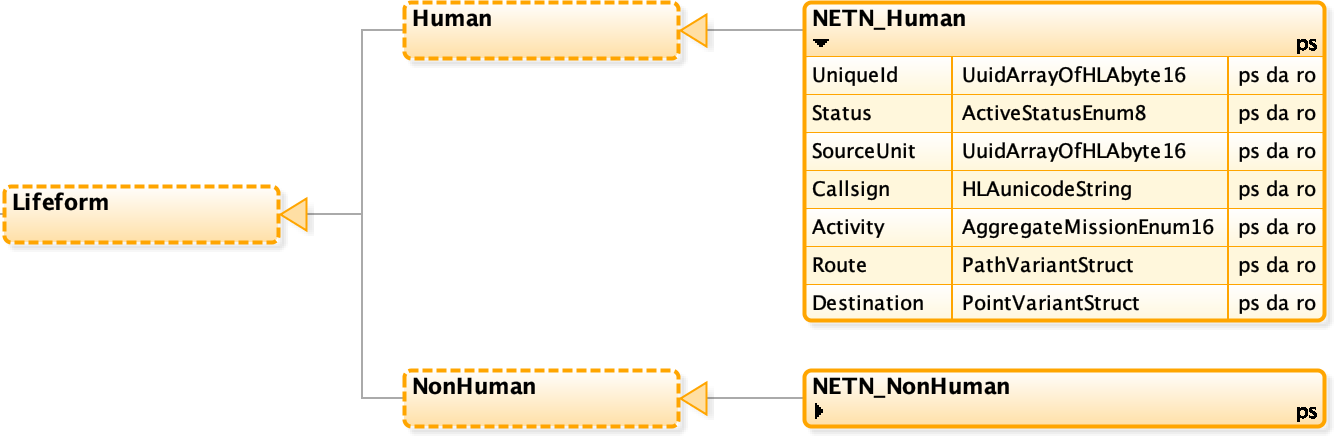
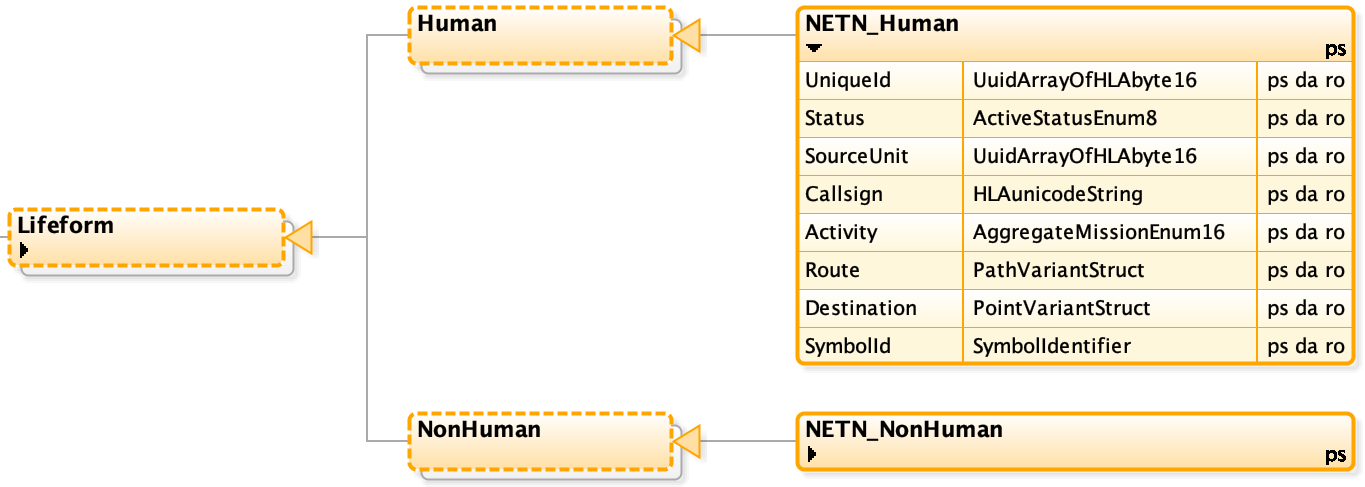
#10

Changed region(s): [[0.2455, 0.0, 1.0, 0.7717], [0.2455, 0.8311, 1.0, 1.0], [0.0, 0.4155, 0.2762, 0.5936]]

diff --git a/NETN-Physical.md b/NETN-Physical.md
@@ -62,6 +62,7 @@ Figure: NETN Extensions to RPR-FOM Platform object classes
 |Activity|**Optional:** The current activity of the platform. The activity may differ from the mission due to casualties, readiness, and other reasons. The default value is 0 (Other activity).|
 |Route|**Optional:** The current path of movement.|
 |Destination|**Optional:** The current destination of movement.|
+|SymbolId|**Optional:** A symbol identifier represented as a string. The symbol standard used is indicated using an URI notation (uri:xxxxxxxxxx). The following uri should be used for common symbology standards app6b, app6b, app6c, app6c, 2525b, 2525c, 2525d. If not provided the symbol standard used is undefined.|
 
 ## Lifeform Entities
 
@@ -80,6 +81,7 @@ Figure: NETN Extensions to RPR-FOM Lifeform object classes
 |Activity|**Optional:** The current activity of the platform. The activity may differ from the mission due to casualties, readiness, and other reasons. The default value is 0 (Other activity).|
 |Route|**Optional:** The current path of movement.|
 |Destination|**Optional:** The current destination of movement.|
+|SymbolId|**Optional:** A symbol identifier represented as a string. The symbol standard used is indicated using an URI notation (uri:xxxxxxxxxx). The following uri should be used for common symbology standards app6b, app6b, app6c, app6c, 2525b, 2525c, 2525d. If not provided the symbol standard used is undefined.|
 
 
 ## Cultural Features
@@ -97,6 +99,7 @@ Figure: NETN Extension to RPR-FOM CulturalFeature object class
 |EmbeddedUnitList|**Optional:** Reference to units, platforms or lifeforms embedded in this CulturalFeature. The default value is an empty list.|
 |Callsign|**Required:** A callsign used to address the unit. Callsigns should be unique in the context in which they are used but not required to be globally unique.|
 |Activity|**Optional:** The current activity of the platform. The activity may differ from the mission due to casualties, readiness, and other reasons. The default value is 0 (Other activity).|
+|SymbolId|**Optional:** A symbol identifier represented as a string. The symbol standard used is indicated using an URI notation (uri:xxxxxxxxxx). The following uri should be used for common symbology standards app6b, app6b, app6c, app6c, 2525b, 2525c, 2525d. If not provided the symbol standard used is undefined.|
 
 ## Munition Entities
 
@@ -110,5 +113,6 @@ Figure: NETN Extension to RPR-FOM Munition object class
 |---|---|
 |UniqueId|**Required**: A unique identifier for the object. The Universally Unique Identifier (UUID) is either generated or defined as part of scenario initialization, e.g. using NETN-ORG MSDL data for defining specific platforms as equipment assigned to units.|
 |Status|**Required:** Indicate if this aggregate unit currently is being simulated or not. E.g. units mounted or embarked on transports can be set to inactive. During an inactive state, the attribute values may not reflect an accurate, current value. Therefore, any subscribing federate can ignore inactive units. All attributes must be updated to represent the current status of the instance before setting the state to Active.|
+|SymbolId|**Optional:** A symbol identifier represented as a string. The symbol standard used is indicated using an URI notation (uri:xxxxxxxxxx). The following uri should be used for common symbology standards app6b, app6b, app6c, app6c, 2525b, 2525c, 2525d. If not provided the symbol standard used is undefined.|
 
 
